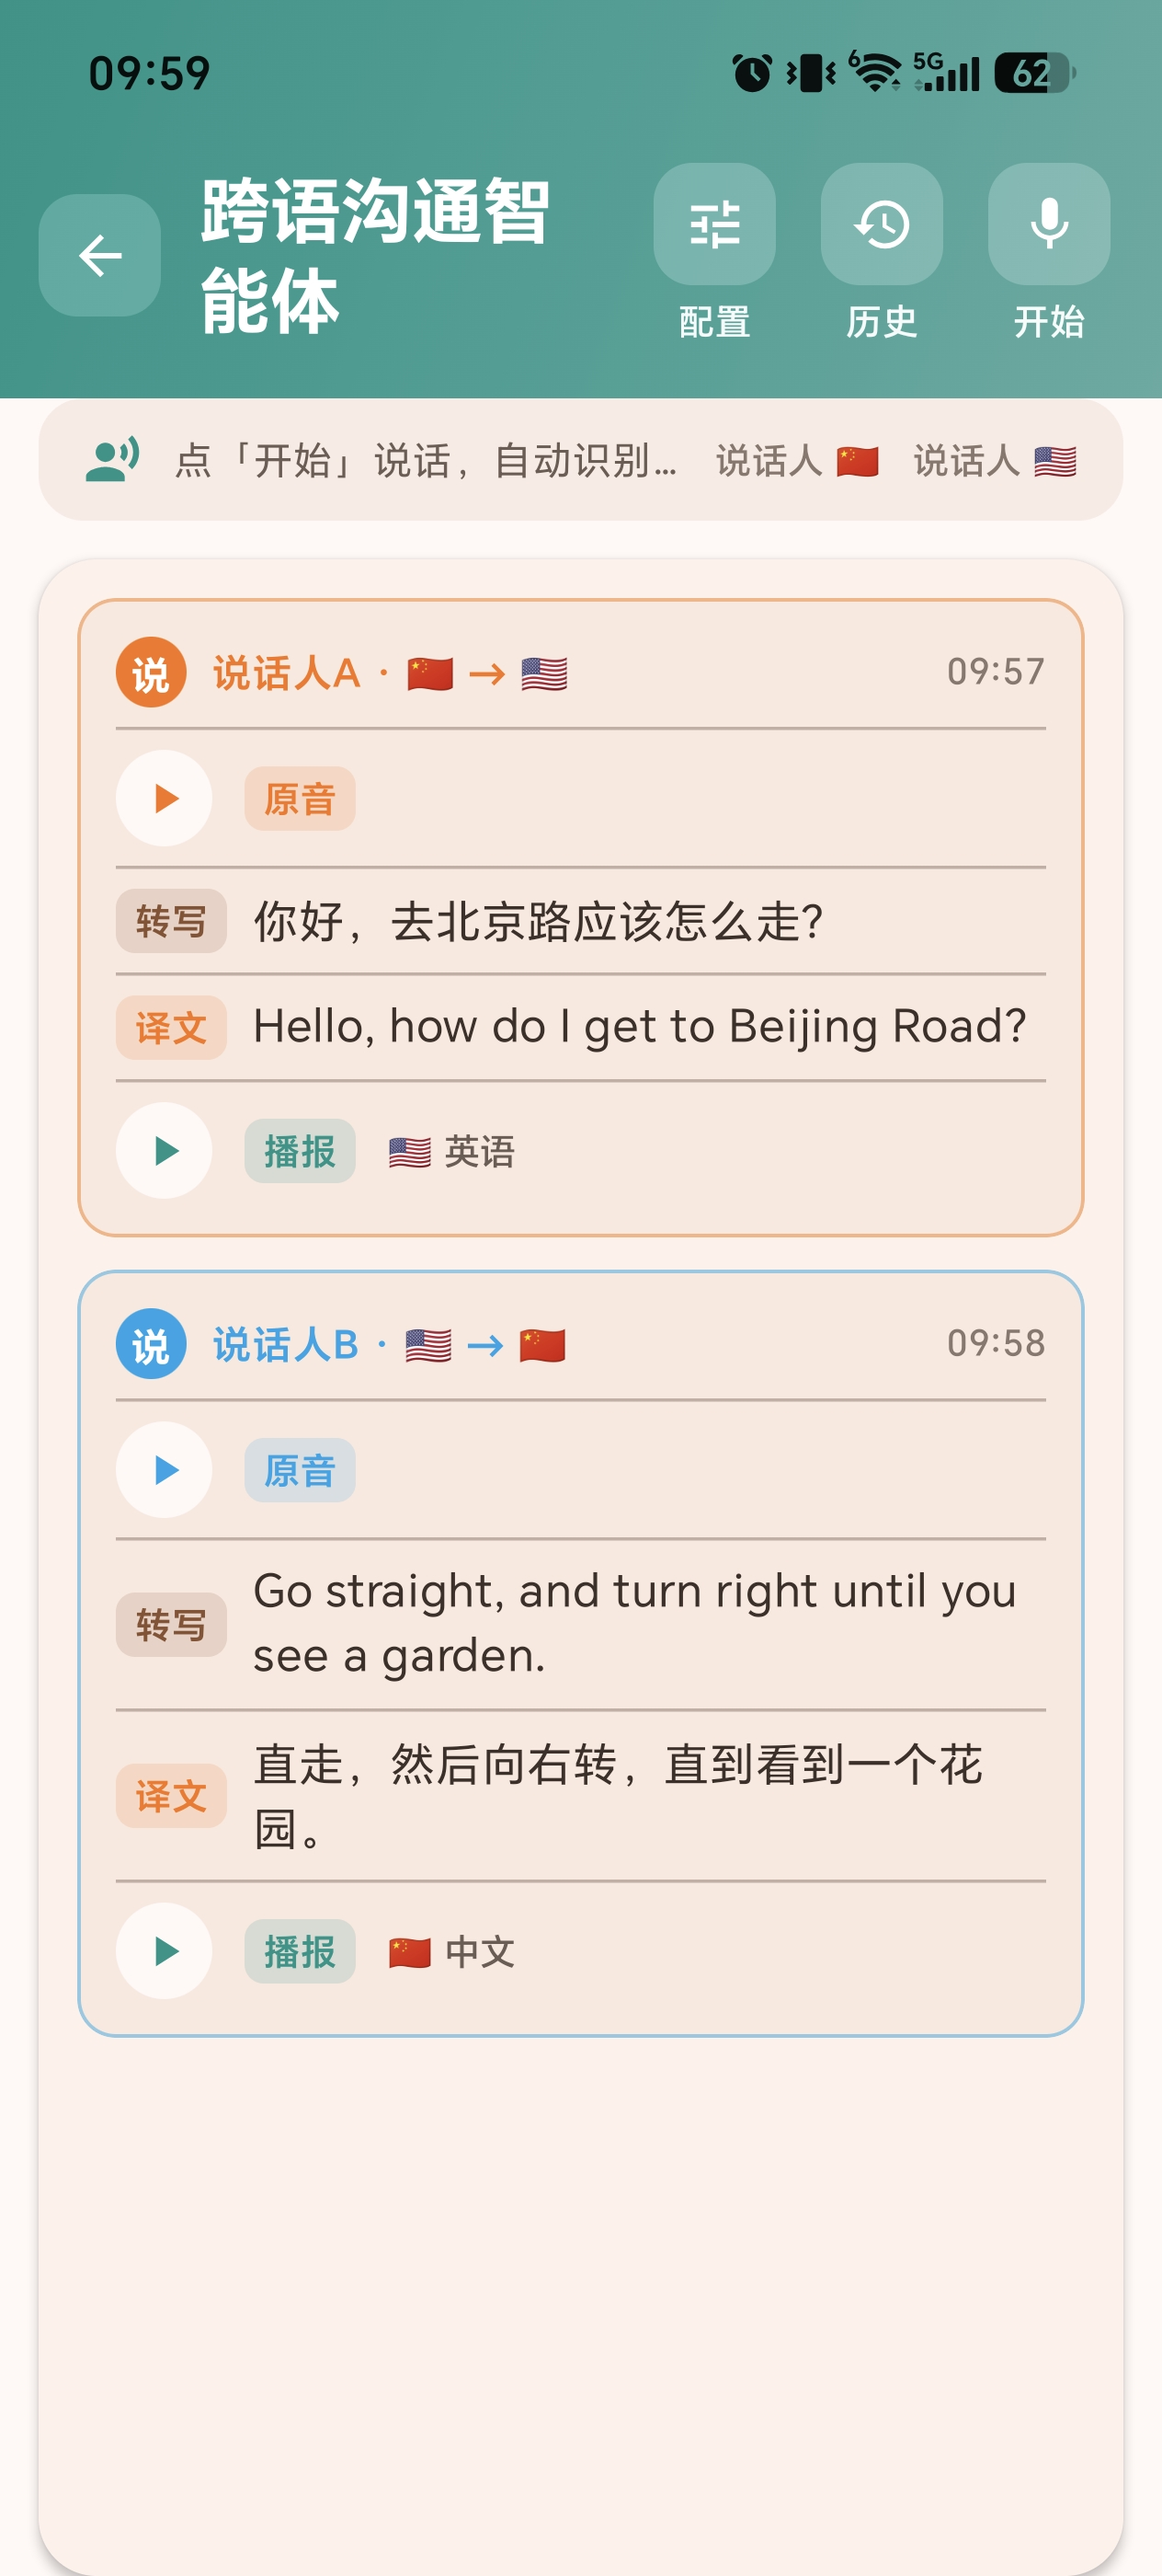
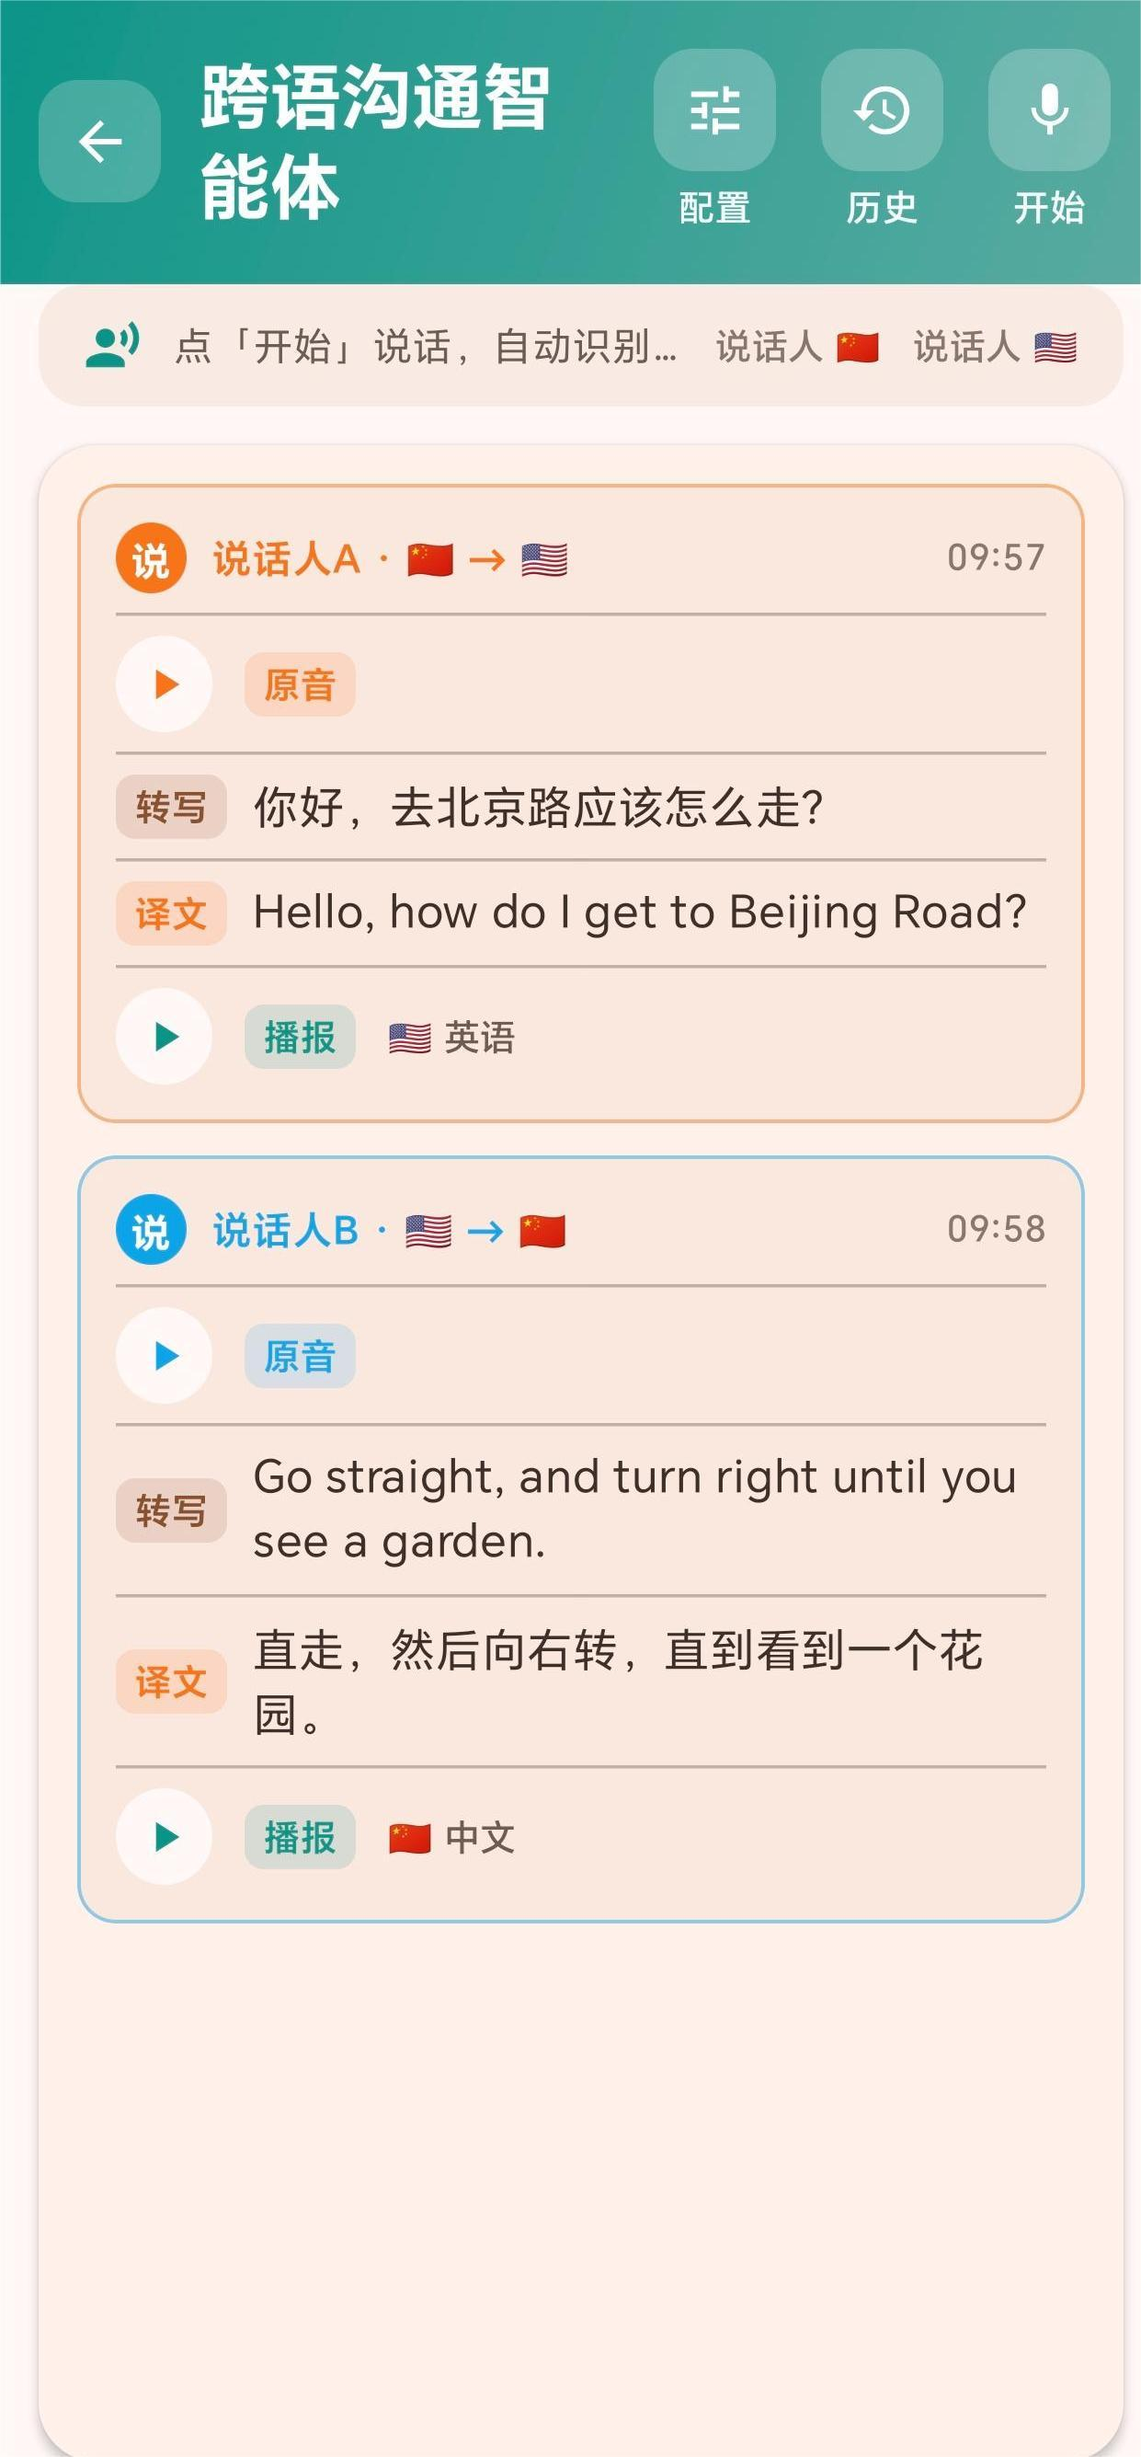
docs: 八个智能体统一编号并补齐截图
- README 智能体章节按首页顺序编号 1-8，去掉括号中的上线状态标注

- 移除指向 docs/操作手册.md 的跳转说明

- 补充文本对话、语音通话、实时听音、全能扫描、文档识别翻译截图，压缩跨语沟通配图

- 操作手册同步更新

Changed region(s): [[0.0, 0.0, 1.0, 0.8079], [0.9186, 0.9944, 0.9799, 1.0], [0.9799, 0.0, 1.0, 0.0311]]

diff --git a/README.md b/README.md
@@ -15,7 +15,25 @@
 
 首页按能力分卡片进入各智能体，右上角进入设置（主题、NPU 加速）。全程无登录、无联网，所有推理都在本机完成。
 
-### 录音翻译（可用）
+下列 **8 个智能体均已上线**。
+
+### 1. 文本对话
+
+以文字直接提问的端侧大模型问答。支持「深度思考 / 不思考」两种模式：不思考直接出正文、响应更快；深度思考先展开推理链（界面实时可见、思考过程可折叠）再作答，适合推理与复杂问题。可上传 txt / Word / PDF / 图片，提问时自动从文档里检索相关段落作答。回复按 Markdown 渲染（标题、列表、代码块、表格等），会话自动保存在本机，可随时从「历史」回看并继续追问。
+
+<p align="center">
+  <img src="images/%E6%96%87%E6%9C%AC%E5%AF%B9%E8%AF%9D.jpg" width="240" alt="文本对话">
+</p>
+
+### 2. 语音通话
+
+像打电话一样的纯语音交互：点开始后直接说话，说完停顿一下即被识别，回答以内置音色的语音播出。半双工（对方说话时先听完），识别、对话与语音合成全部在本机完成。
+
+<p align="center">
+  <img src="images/%E8%AF%AD%E9%9F%B3%E9%80%9A%E8%AF%9D.jpg" width="240" alt="语音通话">
+</p>
+
+### 3. 录音翻译
 
 会议、课堂或面对面交谈时一键开始录音，边录边转写成文字并同步翻译成目标语言，结束后可用端侧大模型一键生成纪要。适合需要留档又不便把录音传到云端的场合。
 
@@ -23,7 +41,7 @@
   <img src="images/%E5%BD%95%E9%9F%B3%E7%BF%BB%E8%AF%91.jpg" width="240" alt="录音翻译">
 </p>
 
-### 本地视频字幕（可用）
+### 4. 本地视频字幕
 
 导入手机里的本地视频，离线生成字幕并给出内容总结与要点提取。外语课程录播、会议录像都能在本地完成，视频本身不会离开设备。
 
@@ -31,7 +49,7 @@
   <img src="images/%E6%9C%AC%E5%9C%B0%E8%A7%86%E9%A2%91%E5%AD%97%E5%B9%95.jpg" width="240" alt="本地视频字幕">
 </p>
 
-### 跨语沟通（可用）
+### 5. 跨语沟通
 
 多人、多语言场景下的实时沟通助手：按说话人分别转写并互译，双方用各自语言说话即可看懂对方的译文，适合跨境交流、涉外接待等面对面场景。
 
@@ -39,19 +57,29 @@
   <img src="images/%E8%B7%A8%E8%AF%AD%E6%B2%9F%E9%80%9A.jpg" width="240" alt="跨语沟通">
 </p>
 
-### 实时视频听音（Beta）
+### 6. 实时视频听音
 
-以悬浮窗形式实时显示正在播放内容（含系统内录音频）的字幕。功能已可用，实时性与性能仍在优化。
+以悬浮窗形式实时显示正在播放内容（含系统内录音频）的字幕，支持 50 种语言。视频不出设备，边播边出字幕。
 
-### 全能扫描（待上线）
+<p align="center">
+  <img src="images/%E5%AE%9E%E6%97%B6%E5%90%AC%E9%9F%B3.jpg" width="240" alt="实时视频听音">
+</p>
+
+### 7. 全能扫描
 
 文档扫描：自动边缘检测 + 透视矫正，把拍歪的纸质文件修正成规整的扫描件，为后续识别与翻译做准备。
 
-### 文档识别翻译（待上线）
+<p align="center">
+  <img src="images/%E5%85%A8%E8%83%BD%E6%89%AB%E6%8F%8F.jpg" width="240" alt="全能扫描">
+</p>
 
-txt / Word / PDF / 图片的离线识别与翻译，全程本地解析，适合合同、说明书等不便外传的文件。
+### 8. 文档识别翻译
 
-详细用法见 [`docs/操作手册.md`](docs/操作手册.md)。
+txt / Word / PDF / 图片的离线识别与翻译，支持格式还原导出，全程本地解析，适合合同、说明书等不便外传的文件。
+
+<p align="center">
+  <img src="images/%E6%96%87%E6%A1%A3%E7%BF%BB%E8%AF%91.jpg" width="240" alt="文档识别翻译">
+</p>
 
 ## 二、下载 APK 直接使用
 
@@ -96,10 +124,15 @@ tts/    语音合成    ocr/    文字识别    vad/    语音端点检测
 app/src/main/java/com/example/xiaoxiai/
 ├── MainActivity.kt        首页、路由
 ├── SettingsScreen.kt      设置（主题 / NPU 加速）
+├── TextChatAgent.kt       文本对话
+├── VoiceCallAgent.kt      语音通话
 ├── SpeechMT*.kt           录音翻译
 ├── VideoSubtitle.kt       本地视频字幕
 ├── CrossLangAgent.kt      跨语沟通
 ├── ListenSubtitle.kt      实时视频听音
+├── DocTransAgent.kt       文档识别翻译
+├── DocTextReader.kt       txt / Word / PDF 文本抽取
+├── MarkdownText.kt        Markdown 渲染（对话、纪要等复用）
 ├── LlmEngine.kt           端侧大模型推理
 ├── TtsEngine.kt           语音合成
 ├── scan/                  全能扫描（OpenCV + CameraX）
